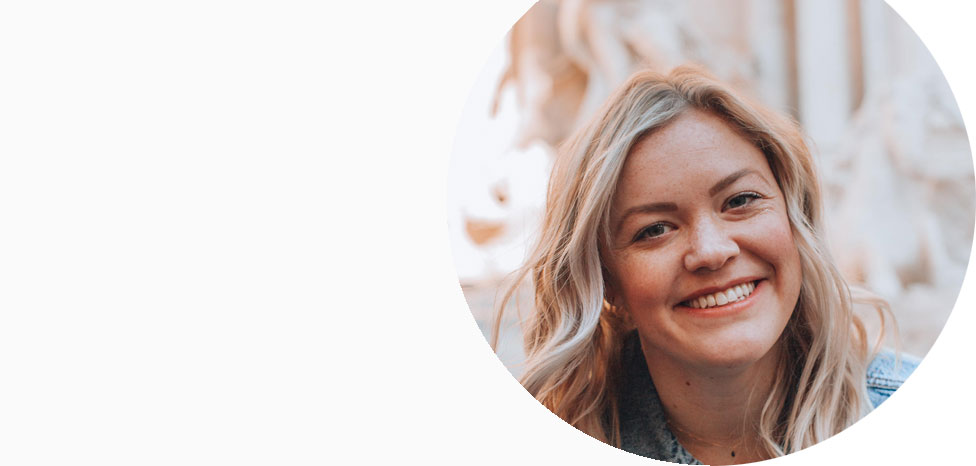
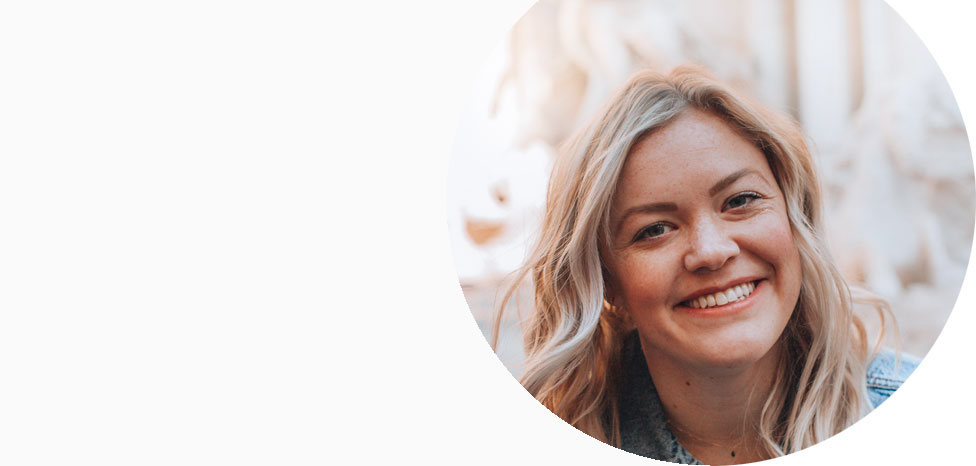
Accessibility tweaks

Changed region(s): [[0.4918, 0.0, 0.6762, 0.3305], [0.7377, 0.0, 0.8299, 0.2103], [0.8607, 0.0, 0.9221, 0.2403]]

diff --git a/src/index.html b/src/index.html
@@ -113,7 +113,7 @@
             <div class="media">
               <p class="mr-3">
                 <span class="icon-disk icon-disk-medium bg-mint">
-                  <svg xmlns="http://www.w3.org/2000/svg" viewBox="0 0 100 100" fill="none" stroke="currentColor" stroke-width="3.7">
+                  <svg xmlns="http://www.w3.org/2000/svg" viewBox="0 0 100 100" fill="none" stroke="currentColor" stroke-width="3.7" aria-label="Weight loss." role="img">
                     <path d="M49.96 98.046v-14.6m-27.5-81.41L24.725 12.9a39.18 39.18 0 0 1-6.449 29.433c-7.263 10.64-9.225 23.9-7.267 39.026l3.47 16.697m70.96-.01L88.9 81.35c1.94-15.136 0-28.385-7.267-39.026a39.18 39.18 0 0 1-6.449-29.433l2.254-10.853M1.954 27.082h14.6M12.4 20.82l4.174 6.26-4.174 6.26m85.563-6.258h-14.6m4.165-6.262l-4.174 6.26 4.174 6.26" stroke-linecap="round" stroke-linejoin="round" />
                     <path d="M11.138 60.477c13.086.672 38.82 22.96 38.82 22.96s25.735-22.287 38.82-22.96z" />
                     <path d="M49.96 42.736c.576 0 1.044.467 1.044 1.044m-2.09 0c0-.576.467-1.044 1.044-1.044m.001 2.087c-.576 0-1.044-.467-1.044-1.044m2.086.001c0 .576-.467 1.044-1.044 1.044" stroke-linecap="round" />
@@ -132,7 +132,7 @@
             <div class="media">
               <p class="mr-3">
                 <span class="icon-disk icon-disk-medium bg-mint">
-                  <svg xmlns="http://www.w3.org/2000/svg" viewBox="0 0 100 100" fill="none" stroke="currentColor" stroke-width="3.7" stroke-linecap="round" stroke-linejoin="round">
+                  <svg xmlns="http://www.w3.org/2000/svg" viewBox="0 0 100 100" fill="none" stroke="currentColor" stroke-width="3.7" stroke-linecap="round" stroke-linejoin="round" aria-label="Strong arm." role="img">
                     <path d="M20.23 28.32l6.642-8.324c.904-1.232 2.396-1.888 3.915-1.72s2.833 1.13 3.448 2.53.437 3.02-.467 4.25L27.05 35.14l-2.273 21.593c6.914-7.864 26.234-7.864 30.685 1.418a21.34 21.34 0 0 1 33.005-17.239 21.34 21.34 0 0 1 9.613 19.321c0 44.732-96.032 31.894-96.032 6.782-1.332-6.796 5.996-33.6 8.933-44.29a21.39 21.39 0 0 1 4.255-7.61 13.64 13.64 0 0 1 10.537-4.978h8.483c3.436-.003 6.66 1.658 8.654 4.457s2.51 6.39 1.383 9.636l-.34.977A13.64 13.64 0 0 1 33.1 34.225l-6.05.91" />
                     <path d="M70.24 55.582h9.092" />
                     <path d="M74.786 48.763v22.73m-9.092-4.547l9.092 4.546 9.092-4.546" />
@@ -153,7 +153,7 @@
             <div class="media">
               <p class="mr-3">
                 <span class="icon-disk icon-disk-medium bg-mint">
-                  <svg xmlns="http://www.w3.org/2000/svg" viewBox="0 0 100 100" fill="none" stroke="currentColor" stroke-width="3.7" stroke-linejoin="round">
+                  <svg xmlns="http://www.w3.org/2000/svg" viewBox="0 0 100 100" fill="none" stroke="currentColor" stroke-width="3.7" stroke-linejoin="round" aria-label="Apple." role="img">
                     <path d="M50 93.975c6.267 0 2.09 4.178 14.622 4.178s25.066-25.066 25.066-41.777S79.243 27.132 66.7 27.132 54.177 31.31 50 31.31s-4.178-4.178-16.71-4.178S10.3 39.665 10.3 56.376s12.533 41.777 25.066 41.777S43.732 93.975 50 93.975z" />
                     <path d="M50 31.31v-8.355c-.014-4.61-3.747-8.342-8.355-8.355h-8.355" stroke-linecap="round" />
                     <path d="M60.978 20.522A18.8 18.8 0 0 0 76.974 4.53a2.16 2.16 0 0 0-2.444-2.444 18.8 18.8 0 0 0-15.992 15.997 2.15 2.15 0 0 0 2.44 2.44z" />
@@ -174,7 +174,7 @@
             <div class="media">
               <p class="mr-3">
                 <span class="icon-disk icon-disk-medium bg-mint">
-                  <svg xmlns="http://www.w3.org/2000/svg" viewBox="0 0 100 100" fill="none" stroke="currentColor" stroke-width="3.7" stroke-linejoin="round">
+                  <svg xmlns="http://www.w3.org/2000/svg" viewBox="0 0 100 100" fill="none" stroke="currentColor" stroke-width="3.7" stroke-linejoin="round" aria-label="Heart with line graph." role="img">
                     <path d="M6.155 46.1h28.057a2.1 2.1 0 0 0 1.745-.931l5.7-8.55a2.1 2.1 0 0 1 3.646.277l11.16 23.912a2.1 2.1 0 0 0 3.818-.034l5.965-13.424a2.1 2.1 0 0 1 1.917-1.259h25.72" />
                     <path d="M50.02 91.665L8.907 49.33C1.51 42.07-.337 30.858 4.343 21.612h0a24.5 24.5 0 0 1 38.964-6.238l6.712 6.12 6.712-6.12c5.55-5.464 13.367-7.962 21.057-6.73s14.336 6.046 17.903 12.97h0a23.79 23.79 0 0 1-4.56 27.717z" />
                   </svg>
@@ -194,7 +194,7 @@
             <div class="media">
               <p class="mr-3">
                 <span class="icon-disk icon-disk-medium bg-mint">
-                  <svg xmlns="http://www.w3.org/2000/svg" viewBox="0 0 100 100" fill="none" stroke="currentColor" stroke-width="3.5" stroke-linecap="round">
+                  <svg xmlns="http://www.w3.org/2000/svg" viewBox="0 0 100 100" fill="none" stroke="currentColor" stroke-width="3.5" stroke-linecap="round" aria-label="Happy, relaxed face." role="img">
                     <path d="m 66.311375,64.77266 a 4.1833258,4.1833258 0 0 1 4.054023,5.220283 20.891276,20.891276 0 0 1 -40.476847,0 4.1833258,4.1833258 0 0 1 4.054023,-5.220283 z" />
                     <path d="m 60.576416,39.27719 a 9.8625076,9.8625076 0 0 0 16.715556,0 m -37.609367,0 a 9.8625076,9.8625076 0 0 1 -16.715556,0" />
                     <circle cx="50.128242" cy="50.146229" r="48.055008" />
@@ -840,7 +840,7 @@
           <div class="col-sm-6 col-xl-2 col-lg-3 col-md-4">
             <div class="row">
               <p class="gutter-small col-4 col-sm-6 col-md-12">
-                <svg xmlns="http://www.w3.org/2000/svg" viewBox="0 0 380 94.72">
+                <svg xmlns="http://www.w3.org/2000/svg" viewBox="0 0 380 94.72" aria-label="PhenQ" role="img">
                   <defs>
                     <clipPath id="A">
                       <path d="M175.3 30.75c15.3 0 23 12.43 23.94 25.9H150.7c1.18-14.78 11.38-25.9 24.6-25.9m-31.4 28.9v.26c0 20.8 15.17 34.8 32.7 34.8 12 0 19.5-4.3 26-10.86a3.12 3.12 0 0 0 1.05-2.22 3.07 3.07 0 0 0-3.14-3 2.82 2.82 0 0 0-2.09.92c-5.36 5.23-12 9.16-21.6 9.16-13.08 0-25-9.7-26.16-26.3H203a3.26 3.26 0 0 0 3.14-3c0-19.1-11.9-34.54-30.6-34.54-18.06 0-31.66 15.44-31.66 34.8m78.88-20.8v-9.15a3.21 3.21 0 1 0-6.41 0V90.4a3.16 3.16 0 0 0 3.27 3.27 3.05 3.05 0 0 0 3.14-3.27V54.56c0-13.87 10.08-23.8 23.16-23.8 13.47 0 21.2 9 21.2 22.76v36.9a3.16 3.16 0 0 0 3.27 3.27 3.06 3.06 0 0 0 3.14-3.27V52.34c0-16-9.8-27.48-26.7-27.48-12.16 0-19.62 6.15-24.07 14m-216-31H32.7c16.48 0 27.73 7.6 27.73 22.1v.27c0 13.6-11.5 22.5-28.52 22.5H6.8zM3.4 1.58A3.46 3.46 0 0 0 0 5v85.27a3.47 3.47 0 0 0 3.4 3.41 3.47 3.47 0 0 0 3.4-3.41V59h24.73c19.1 0 35.7-9.95 35.7-29.18v-.26c0-17.66-13.86-28-34-28zm300.33 45.8v-.27c0-15.7 11.25-28.52 27.47-28.52s27.74 13.08 27.74 28.8v.26a32.06 32.06 0 0 1-2.49 12.55l-10.07-9a9.33 9.33 0 0 0-6.68-2.75 9.5 9.5 0 0 0-9.42 9.57 9.91 9.91 0 0 0 3.72 7.55l9.55 8.1a27.53 27.53 0 0 1-12 2.48c-16.22 0-27.73-13.08-27.73-28.77m-21.07 0v.26c0 26 20.28 47.1 48.54 47.1a49.82 49.82 0 0 0 27.21-7.85l5 4.45a9.43 9.43 0 0 0 16.09-6.8 9.87 9.87 0 0 0-3.67-7.59L372 73.66a47 47 0 0 0 8-26.29v-.27C380 21.07 359.72 0 331.46 0s-48.8 21.32-48.8 47.36M76.8 3.27V90.4a3.16 3.16 0 0 0 3.27 3.27 3.05 3.05 0 0 0 3.14-3.27V54.56c0-13.87 10.08-23.8 23.16-23.8 13.48 0 21.2 9 21.2 22.76v36.9a3.16 3.16 0 0 0 3.27 3.27 3.05 3.05 0 0 0 3.18-3.27V52.34c0-16-9.8-27.48-26.68-27.48-12.17 0-19.63 6.15-24.08 14V3.27A3.23 3.23 0 0 0 79.93 0a3.13 3.13 0 0 0-3.14 3.27" />

diff --git a/src/blog/detox-guide/index.html b/src/blog/detox-guide/index.html
@@ -231,6 +231,17 @@ and for good reason!">
         <div class="block-scroll" data-js="block-scroll" data-offgrid="right">
 
           <section class="block-scroll__child flex-vert" data-js="block-scroll-item">
+            <p><a href="/blog/3-day-detox-plan/" class="btn btn-clear"><img src="/img/content/blog/cta-3-day-detox-plan.jpg" alt="3 Day Detox Plan" class="cap-top radius-medium img-fluid"></a></p>
+            <p>
+              <span class="btn btn-pill btn-sm off">Diet</span>
+              <span class="btn btn-pill btn-sm off">Health and wellbeing</span>
+              <span class="btn btn-pill btn-sm off">Eating</span>
+            </p>
+            <h3 class="h4 type-gotham-medium">3-Day Detox Plan</h3>
+            <p class="mt-auto"><a href="/blog/3-day-detox-plan/" class="btn btn-arrow">Read more<span class="sr-only"> about 3-Day Detox Plan</span></a></p>
+          </section>
+          
+          <section class="block-scroll__child flex-vert" data-js="block-scroll-item">
             <p><a href="/blog/alternate-day-diet/" class="btn btn-clear"><img src="/img/content/blog/cta-alternate-day-diet.jpg" alt="Alternate Day Diet" class="cap-top radius-medium img-fluid"></a></p>
             <p>
               <span class="btn btn-pill btn-sm off">Health and wellbeing</span>
@@ -238,17 +249,6 @@ and for good reason!">
             </p>
             <h3 class="h4 type-gotham-medium">Alternate Day Diet</h3>
             <p class="mt-auto"><a href="/blog/alternate-day-diet/" class="btn btn-arrow">Read more<span class="sr-only"> about Alternate Day Diet</span></a></p>
-          </section>
-
-          <section class="block-scroll__child flex-vert" data-js="block-scroll-item">
-            <p><a href="/blog/detox-guide/" class="btn btn-clear"><img src="/img/content/blog/cta-detox-guide.jpg" alt="A Brief Introduction to Detoxing and Weight Loss" class="cap-top radius-medium img-fluid"></a></p>
-            <p>
-              <span class="btn btn-pill btn-sm off">Diet</span>
-              <span class="btn btn-pill btn-sm off">Health and wellbeing</span>
-              <span class="btn btn-pill btn-sm off">Eating</span>
-            </p>
-            <h3 class="h4 type-gotham-medium">A Brief Introduction to Detoxing and Weight Loss</h3>
-            <p class="mt-auto"><a href="/blog/detox-guide/" class="btn btn-arrow">Read more<span class="sr-only"> about A Brief Introduction to Detoxing and Weight Loss</span></a></p>
           </section>
 
           <section class="block-scroll__child flex-vert" data-js="block-scroll-item">
@@ -295,7 +295,7 @@ and for good reason!">
           <div class="col-sm-6 col-xl-2 col-lg-3 col-md-4">
             <div class="row">
               <p class="gutter-small col-4 col-sm-6 col-md-12">
-                <svg xmlns="http://www.w3.org/2000/svg" viewBox="0 0 380 94.72">
+                <svg xmlns="http://www.w3.org/2000/svg" viewBox="0 0 380 94.72" aria-label="PhenQ" role="img">
                   <defs>
                     <clipPath id="A">
                       <path d="M175.3 30.75c15.3 0 23 12.43 23.94 25.9H150.7c1.18-14.78 11.38-25.9 24.6-25.9m-31.4 28.9v.26c0 20.8 15.17 34.8 32.7 34.8 12 0 19.5-4.3 26-10.86a3.12 3.12 0 0 0 1.05-2.22 3.07 3.07 0 0 0-3.14-3 2.82 2.82 0 0 0-2.09.92c-5.36 5.23-12 9.16-21.6 9.16-13.08 0-25-9.7-26.16-26.3H203a3.26 3.26 0 0 0 3.14-3c0-19.1-11.9-34.54-30.6-34.54-18.06 0-31.66 15.44-31.66 34.8m78.88-20.8v-9.15a3.21 3.21 0 1 0-6.41 0V90.4a3.16 3.16 0 0 0 3.27 3.27 3.05 3.05 0 0 0 3.14-3.27V54.56c0-13.87 10.08-23.8 23.16-23.8 13.47 0 21.2 9 21.2 22.76v36.9a3.16 3.16 0 0 0 3.27 3.27 3.06 3.06 0 0 0 3.14-3.27V52.34c0-16-9.8-27.48-26.7-27.48-12.16 0-19.62 6.15-24.07 14m-216-31H32.7c16.48 0 27.73 7.6 27.73 22.1v.27c0 13.6-11.5 22.5-28.52 22.5H6.8zM3.4 1.58A3.46 3.46 0 0 0 0 5v85.27a3.47 3.47 0 0 0 3.4 3.41 3.47 3.47 0 0 0 3.4-3.41V59h24.73c19.1 0 35.7-9.95 35.7-29.18v-.26c0-17.66-13.86-28-34-28zm300.33 45.8v-.27c0-15.7 11.25-28.52 27.47-28.52s27.74 13.08 27.74 28.8v.26a32.06 32.06 0 0 1-2.49 12.55l-10.07-9a9.33 9.33 0 0 0-6.68-2.75 9.5 9.5 0 0 0-9.42 9.57 9.91 9.91 0 0 0 3.72 7.55l9.55 8.1a27.53 27.53 0 0 1-12 2.48c-16.22 0-27.73-13.08-27.73-28.77m-21.07 0v.26c0 26 20.28 47.1 48.54 47.1a49.82 49.82 0 0 0 27.21-7.85l5 4.45a9.43 9.43 0 0 0 16.09-6.8 9.87 9.87 0 0 0-3.67-7.59L372 73.66a47 47 0 0 0 8-26.29v-.27C380 21.07 359.72 0 331.46 0s-48.8 21.32-48.8 47.36M76.8 3.27V90.4a3.16 3.16 0 0 0 3.27 3.27 3.05 3.05 0 0 0 3.14-3.27V54.56c0-13.87 10.08-23.8 23.16-23.8 13.48 0 21.2 9 21.2 22.76v36.9a3.16 3.16 0 0 0 3.27 3.27 3.05 3.05 0 0 0 3.18-3.27V52.34c0-16-9.8-27.48-26.68-27.48-12.17 0-19.63 6.15-24.08 14V3.27A3.23 3.23 0 0 0 79.93 0a3.13 3.13 0 0 0-3.14 3.27" />

diff --git a/includes/logo-phenq.html b/includes/logo-phenq.html
@@ -1,1 +1,1 @@
-<svg xmlns="http://www.w3.org/2000/svg" viewBox="0 0 380 94.72"><defs><clipPath id="A"><path d="M175.3 30.75c15.3 0 23 12.43 23.94 25.9H150.7c1.18-14.78 11.38-25.9 24.6-25.9m-31.4 28.9v.26c0 20.8 15.17 34.8 32.7 34.8 12 0 19.5-4.3 26-10.86a3.12 3.12 0 0 0 1.05-2.22 3.07 3.07 0 0 0-3.14-3 2.82 2.82 0 0 0-2.09.92c-5.36 5.23-12 9.16-21.6 9.16-13.08 0-25-9.7-26.16-26.3H203a3.26 3.26 0 0 0 3.14-3c0-19.1-11.9-34.54-30.6-34.54-18.06 0-31.66 15.44-31.66 34.8m78.88-20.8v-9.15a3.21 3.21 0 1 0-6.41 0V90.4a3.16 3.16 0 0 0 3.27 3.27 3.05 3.05 0 0 0 3.14-3.27V54.56c0-13.87 10.08-23.8 23.16-23.8 13.47 0 21.2 9 21.2 22.76v36.9a3.16 3.16 0 0 0 3.27 3.27 3.06 3.06 0 0 0 3.14-3.27V52.34c0-16-9.8-27.48-26.7-27.48-12.16 0-19.62 6.15-24.07 14m-216-31H32.7c16.48 0 27.73 7.6 27.73 22.1v.27c0 13.6-11.5 22.5-28.52 22.5H6.8zM3.4 1.58A3.46 3.46 0 0 0 0 5v85.27a3.47 3.47 0 0 0 3.4 3.41 3.47 3.47 0 0 0 3.4-3.41V59h24.73c19.1 0 35.7-9.95 35.7-29.18v-.26c0-17.66-13.86-28-34-28zm300.33 45.8v-.27c0-15.7 11.25-28.52 27.47-28.52s27.74 13.08 27.74 28.8v.26a32.06 32.06 0 0 1-2.49 12.55l-10.07-9a9.33 9.33 0 0 0-6.68-2.75 9.5 9.5 0 0 0-9.42 9.57 9.91 9.91 0 0 0 3.72 7.55l9.55 8.1a27.53 27.53 0 0 1-12 2.48c-16.22 0-27.73-13.08-27.73-28.77m-21.07 0v.26c0 26 20.28 47.1 48.54 47.1a49.82 49.82 0 0 0 27.21-7.85l5 4.45a9.43 9.43 0 0 0 16.09-6.8 9.87 9.87 0 0 0-3.67-7.59L372 73.66a47 47 0 0 0 8-26.29v-.27C380 21.07 359.72 0 331.46 0s-48.8 21.32-48.8 47.36M76.8 3.27V90.4a3.16 3.16 0 0 0 3.27 3.27 3.05 3.05 0 0 0 3.14-3.27V54.56c0-13.87 10.08-23.8 23.16-23.8 13.48 0 21.2 9 21.2 22.76v36.9a3.16 3.16 0 0 0 3.27 3.27 3.05 3.05 0 0 0 3.18-3.27V52.34c0-16-9.8-27.48-26.68-27.48-12.17 0-19.63 6.15-24.08 14V3.27A3.23 3.23 0 0 0 79.93 0a3.13 3.13 0 0 0-3.14 3.27"/></clipPath><linearGradient id="B" x1=".6" y1="47.5" x2="379.8" y2="47.5" gradientUnits="userSpaceOnUse"><stop offset="0" stop-color="#283583"/><stop offset=".41" stop-color="#1666af"/><stop offset=".8" stop-color="#068fd5"/><stop offset="1" stop-color="#009fe3"/></linearGradient></defs><g clip-path="url(#A)"><path d="M0 0h380v94.72H0z" fill="url(#B)"/></g></svg>
+<svg xmlns="http://www.w3.org/2000/svg" viewBox="0 0 380 94.72" aria-label="PhenQ" role="img"><defs><clipPath id="A"><path d="M175.3 30.75c15.3 0 23 12.43 23.94 25.9H150.7c1.18-14.78 11.38-25.9 24.6-25.9m-31.4 28.9v.26c0 20.8 15.17 34.8 32.7 34.8 12 0 19.5-4.3 26-10.86a3.12 3.12 0 0 0 1.05-2.22 3.07 3.07 0 0 0-3.14-3 2.82 2.82 0 0 0-2.09.92c-5.36 5.23-12 9.16-21.6 9.16-13.08 0-25-9.7-26.16-26.3H203a3.26 3.26 0 0 0 3.14-3c0-19.1-11.9-34.54-30.6-34.54-18.06 0-31.66 15.44-31.66 34.8m78.88-20.8v-9.15a3.21 3.21 0 1 0-6.41 0V90.4a3.16 3.16 0 0 0 3.27 3.27 3.05 3.05 0 0 0 3.14-3.27V54.56c0-13.87 10.08-23.8 23.16-23.8 13.47 0 21.2 9 21.2 22.76v36.9a3.16 3.16 0 0 0 3.27 3.27 3.06 3.06 0 0 0 3.14-3.27V52.34c0-16-9.8-27.48-26.7-27.48-12.16 0-19.62 6.15-24.07 14m-216-31H32.7c16.48 0 27.73 7.6 27.73 22.1v.27c0 13.6-11.5 22.5-28.52 22.5H6.8zM3.4 1.58A3.46 3.46 0 0 0 0 5v85.27a3.47 3.47 0 0 0 3.4 3.41 3.47 3.47 0 0 0 3.4-3.41V59h24.73c19.1 0 35.7-9.95 35.7-29.18v-.26c0-17.66-13.86-28-34-28zm300.33 45.8v-.27c0-15.7 11.25-28.52 27.47-28.52s27.74 13.08 27.74 28.8v.26a32.06 32.06 0 0 1-2.49 12.55l-10.07-9a9.33 9.33 0 0 0-6.68-2.75 9.5 9.5 0 0 0-9.42 9.57 9.91 9.91 0 0 0 3.72 7.55l9.55 8.1a27.53 27.53 0 0 1-12 2.48c-16.22 0-27.73-13.08-27.73-28.77m-21.07 0v.26c0 26 20.28 47.1 48.54 47.1a49.82 49.82 0 0 0 27.21-7.85l5 4.45a9.43 9.43 0 0 0 16.09-6.8 9.87 9.87 0 0 0-3.67-7.59L372 73.66a47 47 0 0 0 8-26.29v-.27C380 21.07 359.72 0 331.46 0s-48.8 21.32-48.8 47.36M76.8 3.27V90.4a3.16 3.16 0 0 0 3.27 3.27 3.05 3.05 0 0 0 3.14-3.27V54.56c0-13.87 10.08-23.8 23.16-23.8 13.48 0 21.2 9 21.2 22.76v36.9a3.16 3.16 0 0 0 3.27 3.27 3.05 3.05 0 0 0 3.18-3.27V52.34c0-16-9.8-27.48-26.68-27.48-12.17 0-19.63 6.15-24.08 14V3.27A3.23 3.23 0 0 0 79.93 0a3.13 3.13 0 0 0-3.14 3.27"/></clipPath><linearGradient id="B" x1=".6" y1="47.5" x2="379.8" y2="47.5" gradientUnits="userSpaceOnUse"><stop offset="0" stop-color="#283583"/><stop offset=".41" stop-color="#1666af"/><stop offset=".8" stop-color="#068fd5"/><stop offset="1" stop-color="#009fe3"/></linearGradient></defs><g clip-path="url(#A)"><path d="M0 0h380v94.72H0z" fill="url(#B)"/></g></svg>

diff --git a/src/include/logo-phenq.html b/src/include/logo-phenq.html
@@ -1,1 +1,1 @@
-<svg xmlns="http://www.w3.org/2000/svg" viewBox="0 0 380 94.72"><defs><clipPath id="A"><path d="M175.3 30.75c15.3 0 23 12.43 23.94 25.9H150.7c1.18-14.78 11.38-25.9 24.6-25.9m-31.4 28.9v.26c0 20.8 15.17 34.8 32.7 34.8 12 0 19.5-4.3 26-10.86a3.12 3.12 0 0 0 1.05-2.22 3.07 3.07 0 0 0-3.14-3 2.82 2.82 0 0 0-2.09.92c-5.36 5.23-12 9.16-21.6 9.16-13.08 0-25-9.7-26.16-26.3H203a3.26 3.26 0 0 0 3.14-3c0-19.1-11.9-34.54-30.6-34.54-18.06 0-31.66 15.44-31.66 34.8m78.88-20.8v-9.15a3.21 3.21 0 1 0-6.41 0V90.4a3.16 3.16 0 0 0 3.27 3.27 3.05 3.05 0 0 0 3.14-3.27V54.56c0-13.87 10.08-23.8 23.16-23.8 13.47 0 21.2 9 21.2 22.76v36.9a3.16 3.16 0 0 0 3.27 3.27 3.06 3.06 0 0 0 3.14-3.27V52.34c0-16-9.8-27.48-26.7-27.48-12.16 0-19.62 6.15-24.07 14m-216-31H32.7c16.48 0 27.73 7.6 27.73 22.1v.27c0 13.6-11.5 22.5-28.52 22.5H6.8zM3.4 1.58A3.46 3.46 0 0 0 0 5v85.27a3.47 3.47 0 0 0 3.4 3.41 3.47 3.47 0 0 0 3.4-3.41V59h24.73c19.1 0 35.7-9.95 35.7-29.18v-.26c0-17.66-13.86-28-34-28zm300.33 45.8v-.27c0-15.7 11.25-28.52 27.47-28.52s27.74 13.08 27.74 28.8v.26a32.06 32.06 0 0 1-2.49 12.55l-10.07-9a9.33 9.33 0 0 0-6.68-2.75 9.5 9.5 0 0 0-9.42 9.57 9.91 9.91 0 0 0 3.72 7.55l9.55 8.1a27.53 27.53 0 0 1-12 2.48c-16.22 0-27.73-13.08-27.73-28.77m-21.07 0v.26c0 26 20.28 47.1 48.54 47.1a49.82 49.82 0 0 0 27.21-7.85l5 4.45a9.43 9.43 0 0 0 16.09-6.8 9.87 9.87 0 0 0-3.67-7.59L372 73.66a47 47 0 0 0 8-26.29v-.27C380 21.07 359.72 0 331.46 0s-48.8 21.32-48.8 47.36M76.8 3.27V90.4a3.16 3.16 0 0 0 3.27 3.27 3.05 3.05 0 0 0 3.14-3.27V54.56c0-13.87 10.08-23.8 23.16-23.8 13.48 0 21.2 9 21.2 22.76v36.9a3.16 3.16 0 0 0 3.27 3.27 3.05 3.05 0 0 0 3.18-3.27V52.34c0-16-9.8-27.48-26.68-27.48-12.17 0-19.63 6.15-24.08 14V3.27A3.23 3.23 0 0 0 79.93 0a3.13 3.13 0 0 0-3.14 3.27"/></clipPath><linearGradient id="B" x1=".6" y1="47.5" x2="379.8" y2="47.5" gradientUnits="userSpaceOnUse"><stop offset="0" stop-color="#283583"/><stop offset=".41" stop-color="#1666af"/><stop offset=".8" stop-color="#068fd5"/><stop offset="1" stop-color="#009fe3"/></linearGradient></defs><g clip-path="url(#A)"><path d="M0 0h380v94.72H0z" fill="url(#B)"/></g></svg>
+<svg xmlns="http://www.w3.org/2000/svg" viewBox="0 0 380 94.72" aria-label="PhenQ" role="img"><defs><clipPath id="A"><path d="M175.3 30.75c15.3 0 23 12.43 23.94 25.9H150.7c1.18-14.78 11.38-25.9 24.6-25.9m-31.4 28.9v.26c0 20.8 15.17 34.8 32.7 34.8 12 0 19.5-4.3 26-10.86a3.12 3.12 0 0 0 1.05-2.22 3.07 3.07 0 0 0-3.14-3 2.82 2.82 0 0 0-2.09.92c-5.36 5.23-12 9.16-21.6 9.16-13.08 0-25-9.7-26.16-26.3H203a3.26 3.26 0 0 0 3.14-3c0-19.1-11.9-34.54-30.6-34.54-18.06 0-31.66 15.44-31.66 34.8m78.88-20.8v-9.15a3.21 3.21 0 1 0-6.41 0V90.4a3.16 3.16 0 0 0 3.27 3.27 3.05 3.05 0 0 0 3.14-3.27V54.56c0-13.87 10.08-23.8 23.16-23.8 13.47 0 21.2 9 21.2 22.76v36.9a3.16 3.16 0 0 0 3.27 3.27 3.06 3.06 0 0 0 3.14-3.27V52.34c0-16-9.8-27.48-26.7-27.48-12.16 0-19.62 6.15-24.07 14m-216-31H32.7c16.48 0 27.73 7.6 27.73 22.1v.27c0 13.6-11.5 22.5-28.52 22.5H6.8zM3.4 1.58A3.46 3.46 0 0 0 0 5v85.27a3.47 3.47 0 0 0 3.4 3.41 3.47 3.47 0 0 0 3.4-3.41V59h24.73c19.1 0 35.7-9.95 35.7-29.18v-.26c0-17.66-13.86-28-34-28zm300.33 45.8v-.27c0-15.7 11.25-28.52 27.47-28.52s27.74 13.08 27.74 28.8v.26a32.06 32.06 0 0 1-2.49 12.55l-10.07-9a9.33 9.33 0 0 0-6.68-2.75 9.5 9.5 0 0 0-9.42 9.57 9.91 9.91 0 0 0 3.72 7.55l9.55 8.1a27.53 27.53 0 0 1-12 2.48c-16.22 0-27.73-13.08-27.73-28.77m-21.07 0v.26c0 26 20.28 47.1 48.54 47.1a49.82 49.82 0 0 0 27.21-7.85l5 4.45a9.43 9.43 0 0 0 16.09-6.8 9.87 9.87 0 0 0-3.67-7.59L372 73.66a47 47 0 0 0 8-26.29v-.27C380 21.07 359.72 0 331.46 0s-48.8 21.32-48.8 47.36M76.8 3.27V90.4a3.16 3.16 0 0 0 3.27 3.27 3.05 3.05 0 0 0 3.14-3.27V54.56c0-13.87 10.08-23.8 23.16-23.8 13.48 0 21.2 9 21.2 22.76v36.9a3.16 3.16 0 0 0 3.27 3.27 3.05 3.05 0 0 0 3.18-3.27V52.34c0-16-9.8-27.48-26.68-27.48-12.17 0-19.63 6.15-24.08 14V3.27A3.23 3.23 0 0 0 79.93 0a3.13 3.13 0 0 0-3.14 3.27"/></clipPath><linearGradient id="B" x1=".6" y1="47.5" x2="379.8" y2="47.5" gradientUnits="userSpaceOnUse"><stop offset="0" stop-color="#283583"/><stop offset=".41" stop-color="#1666af"/><stop offset=".8" stop-color="#068fd5"/><stop offset="1" stop-color="#009fe3"/></linearGradient></defs><g clip-path="url(#A)"><path d="M0 0h380v94.72H0z" fill="url(#B)"/></g></svg>

diff --git a/src/blog/index.html b/src/blog/index.html
@@ -105,7 +105,7 @@
           <div class="row gutter-small">
 
             <section class="col-md flex-vert" aria-label="3-Day Detox Plan">
-              <p class="d-print-none"><a href="/blog/3-day-detox-plan/" class="btn btn-clear"><img src="/img/content/blog/cta-3-day-detox-plan.jpg" alt="" class="cap-top radius-medium img-fluid"></a></p>
+              <p class="d-print-none"><a href="/blog/3-day-detox-plan/" class="btn btn-clear"><img src="/img/content/blog/cta-3-day-detox-plan.jpg" alt="3-Day Detox Plan" class="cap-top radius-medium img-fluid"></a></p>
               <p>
                 <span class="btn btn-pill btn-sm off">Diet</span>
                 <span class="btn btn-pill btn-sm off">Health and wellbeing</span>
@@ -184,7 +184,7 @@
           <div class="col-sm-6 col-xl-2 col-lg-3 col-md-4">
             <div class="row">
               <p class="gutter-small col-4 col-sm-6 col-md-12">
-                <svg xmlns="http://www.w3.org/2000/svg" viewBox="0 0 380 94.72">
+                <svg xmlns="http://www.w3.org/2000/svg" viewBox="0 0 380 94.72" aria-label="PhenQ" role="img">
                   <defs>
                     <clipPath id="A">
                       <path d="M175.3 30.75c15.3 0 23 12.43 23.94 25.9H150.7c1.18-14.78 11.38-25.9 24.6-25.9m-31.4 28.9v.26c0 20.8 15.17 34.8 32.7 34.8 12 0 19.5-4.3 26-10.86a3.12 3.12 0 0 0 1.05-2.22 3.07 3.07 0 0 0-3.14-3 2.82 2.82 0 0 0-2.09.92c-5.36 5.23-12 9.16-21.6 9.16-13.08 0-25-9.7-26.16-26.3H203a3.26 3.26 0 0 0 3.14-3c0-19.1-11.9-34.54-30.6-34.54-18.06 0-31.66 15.44-31.66 34.8m78.88-20.8v-9.15a3.21 3.21 0 1 0-6.41 0V90.4a3.16 3.16 0 0 0 3.27 3.27 3.05 3.05 0 0 0 3.14-3.27V54.56c0-13.87 10.08-23.8 23.16-23.8 13.47 0 21.2 9 21.2 22.76v36.9a3.16 3.16 0 0 0 3.27 3.27 3.06 3.06 0 0 0 3.14-3.27V52.34c0-16-9.8-27.48-26.7-27.48-12.16 0-19.62 6.15-24.07 14m-216-31H32.7c16.48 0 27.73 7.6 27.73 22.1v.27c0 13.6-11.5 22.5-28.52 22.5H6.8zM3.4 1.58A3.46 3.46 0 0 0 0 5v85.27a3.47 3.47 0 0 0 3.4 3.41 3.47 3.47 0 0 0 3.4-3.41V59h24.73c19.1 0 35.7-9.95 35.7-29.18v-.26c0-17.66-13.86-28-34-28zm300.33 45.8v-.27c0-15.7 11.25-28.52 27.47-28.52s27.74 13.08 27.74 28.8v.26a32.06 32.06 0 0 1-2.49 12.55l-10.07-9a9.33 9.33 0 0 0-6.68-2.75 9.5 9.5 0 0 0-9.42 9.57 9.91 9.91 0 0 0 3.72 7.55l9.55 8.1a27.53 27.53 0 0 1-12 2.48c-16.22 0-27.73-13.08-27.73-28.77m-21.07 0v.26c0 26 20.28 47.1 48.54 47.1a49.82 49.82 0 0 0 27.21-7.85l5 4.45a9.43 9.43 0 0 0 16.09-6.8 9.87 9.87 0 0 0-3.67-7.59L372 73.66a47 47 0 0 0 8-26.29v-.27C380 21.07 359.72 0 331.46 0s-48.8 21.32-48.8 47.36M76.8 3.27V90.4a3.16 3.16 0 0 0 3.27 3.27 3.05 3.05 0 0 0 3.14-3.27V54.56c0-13.87 10.08-23.8 23.16-23.8 13.48 0 21.2 9 21.2 22.76v36.9a3.16 3.16 0 0 0 3.27 3.27 3.05 3.05 0 0 0 3.18-3.27V52.34c0-16-9.8-27.48-26.68-27.48-12.17 0-19.63 6.15-24.08 14V3.27A3.23 3.23 0 0 0 79.93 0a3.13 3.13 0 0 0-3.14 3.27" />

diff --git a/src/blog/alternate-day-diet/index.html b/src/blog/alternate-day-diet/index.html
@@ -1280,7 +1280,7 @@
         <div class="block-scroll" data-js="block-scroll" data-offgrid="right">
 
           <section class="block-scroll__child flex-vert" data-js="block-scroll-item">
-            <p><a href="/blog/3-day-detox-plan/" class="btn btn-clear"><img src="/img/content/blog/cta-3-day-detox-plan.jpg" alt="" class="cap-top radius-medium img-fluid"></a></p>
+            <p><a href="/blog/3-day-detox-plan/" class="btn btn-clear"><img src="/img/content/blog/cta-3-day-detox-plan.jpg" alt="3 Day Detox Plan" class="cap-top radius-medium img-fluid"></a></p>
             <p>
               <span class="btn btn-pill btn-sm off">Diet</span>
               <span class="btn btn-pill btn-sm off">Health and wellbeing</span>
@@ -1345,7 +1345,7 @@
           <div class="col-sm-6 col-xl-2 col-lg-3 col-md-4">
             <div class="row">
               <p class="gutter-small col-4 col-sm-6 col-md-12">
-                <svg xmlns="http://www.w3.org/2000/svg" viewBox="0 0 380 94.72">
+                <svg xmlns="http://www.w3.org/2000/svg" viewBox="0 0 380 94.72" aria-label="PhenQ" role="img">
                   <defs>
                     <clipPath id="A">
                       <path d="M175.3 30.75c15.3 0 23 12.43 23.94 25.9H150.7c1.18-14.78 11.38-25.9 24.6-25.9m-31.4 28.9v.26c0 20.8 15.17 34.8 32.7 34.8 12 0 19.5-4.3 26-10.86a3.12 3.12 0 0 0 1.05-2.22 3.07 3.07 0 0 0-3.14-3 2.82 2.82 0 0 0-2.09.92c-5.36 5.23-12 9.16-21.6 9.16-13.08 0-25-9.7-26.16-26.3H203a3.26 3.26 0 0 0 3.14-3c0-19.1-11.9-34.54-30.6-34.54-18.06 0-31.66 15.44-31.66 34.8m78.88-20.8v-9.15a3.21 3.21 0 1 0-6.41 0V90.4a3.16 3.16 0 0 0 3.27 3.27 3.05 3.05 0 0 0 3.14-3.27V54.56c0-13.87 10.08-23.8 23.16-23.8 13.47 0 21.2 9 21.2 22.76v36.9a3.16 3.16 0 0 0 3.27 3.27 3.06 3.06 0 0 0 3.14-3.27V52.34c0-16-9.8-27.48-26.7-27.48-12.16 0-19.62 6.15-24.07 14m-216-31H32.7c16.48 0 27.73 7.6 27.73 22.1v.27c0 13.6-11.5 22.5-28.52 22.5H6.8zM3.4 1.58A3.46 3.46 0 0 0 0 5v85.27a3.47 3.47 0 0 0 3.4 3.41 3.47 3.47 0 0 0 3.4-3.41V59h24.73c19.1 0 35.7-9.95 35.7-29.18v-.26c0-17.66-13.86-28-34-28zm300.33 45.8v-.27c0-15.7 11.25-28.52 27.47-28.52s27.74 13.08 27.74 28.8v.26a32.06 32.06 0 0 1-2.49 12.55l-10.07-9a9.33 9.33 0 0 0-6.68-2.75 9.5 9.5 0 0 0-9.42 9.57 9.91 9.91 0 0 0 3.72 7.55l9.55 8.1a27.53 27.53 0 0 1-12 2.48c-16.22 0-27.73-13.08-27.73-28.77m-21.07 0v.26c0 26 20.28 47.1 48.54 47.1a49.82 49.82 0 0 0 27.21-7.85l5 4.45a9.43 9.43 0 0 0 16.09-6.8 9.87 9.87 0 0 0-3.67-7.59L372 73.66a47 47 0 0 0 8-26.29v-.27C380 21.07 359.72 0 331.46 0s-48.8 21.32-48.8 47.36M76.8 3.27V90.4a3.16 3.16 0 0 0 3.27 3.27 3.05 3.05 0 0 0 3.14-3.27V54.56c0-13.87 10.08-23.8 23.16-23.8 13.48 0 21.2 9 21.2 22.76v36.9a3.16 3.16 0 0 0 3.27 3.27 3.05 3.05 0 0 0 3.18-3.27V52.34c0-16-9.8-27.48-26.68-27.48-12.17 0-19.63 6.15-24.08 14V3.27A3.23 3.23 0 0 0 79.93 0a3.13 3.13 0 0 0-3.14 3.27" />

diff --git a/src/blog/article/index.html b/src/blog/article/index.html
@@ -155,7 +155,7 @@
         <div class="block-scroll" data-js="block-scroll" data-offgrid="right">
 
           <section class="block-scroll__child flex-vert" data-js="block-scroll-item">
-            <p><a href="/blog/3-day-detox-plan/" class="btn btn-clear"><img src="/img/content/blog/cta-3-day-detox-plan.jpg" alt="" class="cap-top radius-medium img-fluid"></a></p>
+            <p><a href="/blog/3-day-detox-plan/" class="btn btn-clear"><img src="/img/content/blog/cta-3-day-detox-plan.jpg" alt="3 Day Detox Plan" class="cap-top radius-medium img-fluid"></a></p>
             <p>
               <span class="btn btn-pill btn-sm off">Diet</span>
               <span class="btn btn-pill btn-sm off">Health and wellbeing</span>
@@ -230,7 +230,7 @@
           <div class="col-sm-6 col-xl-2 col-lg-3 col-md-4">
             <div class="row">
               <p class="gutter-small col-4 col-sm-6 col-md-12">
-                <svg xmlns="http://www.w3.org/2000/svg" viewBox="0 0 380 94.72">
+                <svg xmlns="http://www.w3.org/2000/svg" viewBox="0 0 380 94.72" aria-label="PhenQ" role="img">
                   <defs>
                     <clipPath id="A">
                       <path d="M175.3 30.75c15.3 0 23 12.43 23.94 25.9H150.7c1.18-14.78 11.38-25.9 24.6-25.9m-31.4 28.9v.26c0 20.8 15.17 34.8 32.7 34.8 12 0 19.5-4.3 26-10.86a3.12 3.12 0 0 0 1.05-2.22 3.07 3.07 0 0 0-3.14-3 2.82 2.82 0 0 0-2.09.92c-5.36 5.23-12 9.16-21.6 9.16-13.08 0-25-9.7-26.16-26.3H203a3.26 3.26 0 0 0 3.14-3c0-19.1-11.9-34.54-30.6-34.54-18.06 0-31.66 15.44-31.66 34.8m78.88-20.8v-9.15a3.21 3.21 0 1 0-6.41 0V90.4a3.16 3.16 0 0 0 3.27 3.27 3.05 3.05 0 0 0 3.14-3.27V54.56c0-13.87 10.08-23.8 23.16-23.8 13.47 0 21.2 9 21.2 22.76v36.9a3.16 3.16 0 0 0 3.27 3.27 3.06 3.06 0 0 0 3.14-3.27V52.34c0-16-9.8-27.48-26.7-27.48-12.16 0-19.62 6.15-24.07 14m-216-31H32.7c16.48 0 27.73 7.6 27.73 22.1v.27c0 13.6-11.5 22.5-28.52 22.5H6.8zM3.4 1.58A3.46 3.46 0 0 0 0 5v85.27a3.47 3.47 0 0 0 3.4 3.41 3.47 3.47 0 0 0 3.4-3.41V59h24.73c19.1 0 35.7-9.95 35.7-29.18v-.26c0-17.66-13.86-28-34-28zm300.33 45.8v-.27c0-15.7 11.25-28.52 27.47-28.52s27.74 13.08 27.74 28.8v.26a32.06 32.06 0 0 1-2.49 12.55l-10.07-9a9.33 9.33 0 0 0-6.68-2.75 9.5 9.5 0 0 0-9.42 9.57 9.91 9.91 0 0 0 3.72 7.55l9.55 8.1a27.53 27.53 0 0 1-12 2.48c-16.22 0-27.73-13.08-27.73-28.77m-21.07 0v.26c0 26 20.28 47.1 48.54 47.1a49.82 49.82 0 0 0 27.21-7.85l5 4.45a9.43 9.43 0 0 0 16.09-6.8 9.87 9.87 0 0 0-3.67-7.59L372 73.66a47 47 0 0 0 8-26.29v-.27C380 21.07 359.72 0 331.46 0s-48.8 21.32-48.8 47.36M76.8 3.27V90.4a3.16 3.16 0 0 0 3.27 3.27 3.05 3.05 0 0 0 3.14-3.27V54.56c0-13.87 10.08-23.8 23.16-23.8 13.48 0 21.2 9 21.2 22.76v36.9a3.16 3.16 0 0 0 3.27 3.27 3.05 3.05 0 0 0 3.18-3.27V52.34c0-16-9.8-27.48-26.68-27.48-12.17 0-19.63 6.15-24.08 14V3.27A3.23 3.23 0 0 0 79.93 0a3.13 3.13 0 0 0-3.14 3.27" />

diff --git a/src/blog/nutrition-guide/index.html b/src/blog/nutrition-guide/index.html
@@ -605,7 +605,7 @@
         <div class="block-scroll" data-js="block-scroll" data-offgrid="right">
 
           <section class="block-scroll__child flex-vert" data-js="block-scroll-item">
-            <p><a href="/blog/3-day-detox-plan/" class="btn btn-clear"><img src="/img/content/blog/cta-3-day-detox-plan.jpg" alt="" class="cap-top radius-medium img-fluid"></a></p>
+            <p><a href="/blog/3-day-detox-plan/" class="btn btn-clear"><img src="/img/content/blog/cta-3-day-detox-plan.jpg" alt="3 Day Detox Plan" class="cap-top radius-medium img-fluid"></a></p>
             <p>
               <span class="btn btn-pill btn-sm off">Diet</span>
               <span class="btn btn-pill btn-sm off">Health and wellbeing</span>
@@ -669,7 +669,7 @@
           <div class="col-sm-6 col-xl-2 col-lg-3 col-md-4">
             <div class="row">
               <p class="gutter-small col-4 col-sm-6 col-md-12">
-                <svg xmlns="http://www.w3.org/2000/svg" viewBox="0 0 380 94.72">
+                <svg xmlns="http://www.w3.org/2000/svg" viewBox="0 0 380 94.72" aria-label="PhenQ" role="img">
                   <defs>
                     <clipPath id="A">
                       <path d="M175.3 30.75c15.3 0 23 12.43 23.94 25.9H150.7c1.18-14.78 11.38-25.9 24.6-25.9m-31.4 28.9v.26c0 20.8 15.17 34.8 32.7 34.8 12 0 19.5-4.3 26-10.86a3.12 3.12 0 0 0 1.05-2.22 3.07 3.07 0 0 0-3.14-3 2.82 2.82 0 0 0-2.09.92c-5.36 5.23-12 9.16-21.6 9.16-13.08 0-25-9.7-26.16-26.3H203a3.26 3.26 0 0 0 3.14-3c0-19.1-11.9-34.54-30.6-34.54-18.06 0-31.66 15.44-31.66 34.8m78.88-20.8v-9.15a3.21 3.21 0 1 0-6.41 0V90.4a3.16 3.16 0 0 0 3.27 3.27 3.05 3.05 0 0 0 3.14-3.27V54.56c0-13.87 10.08-23.8 23.16-23.8 13.47 0 21.2 9 21.2 22.76v36.9a3.16 3.16 0 0 0 3.27 3.27 3.06 3.06 0 0 0 3.14-3.27V52.34c0-16-9.8-27.48-26.7-27.48-12.16 0-19.62 6.15-24.07 14m-216-31H32.7c16.48 0 27.73 7.6 27.73 22.1v.27c0 13.6-11.5 22.5-28.52 22.5H6.8zM3.4 1.58A3.46 3.46 0 0 0 0 5v85.27a3.47 3.47 0 0 0 3.4 3.41 3.47 3.47 0 0 0 3.4-3.41V59h24.73c19.1 0 35.7-9.95 35.7-29.18v-.26c0-17.66-13.86-28-34-28zm300.33 45.8v-.27c0-15.7 11.25-28.52 27.47-28.52s27.74 13.08 27.74 28.8v.26a32.06 32.06 0 0 1-2.49 12.55l-10.07-9a9.33 9.33 0 0 0-6.68-2.75 9.5 9.5 0 0 0-9.42 9.57 9.91 9.91 0 0 0 3.72 7.55l9.55 8.1a27.53 27.53 0 0 1-12 2.48c-16.22 0-27.73-13.08-27.73-28.77m-21.07 0v.26c0 26 20.28 47.1 48.54 47.1a49.82 49.82 0 0 0 27.21-7.85l5 4.45a9.43 9.43 0 0 0 16.09-6.8 9.87 9.87 0 0 0-3.67-7.59L372 73.66a47 47 0 0 0 8-26.29v-.27C380 21.07 359.72 0 331.46 0s-48.8 21.32-48.8 47.36M76.8 3.27V90.4a3.16 3.16 0 0 0 3.27 3.27 3.05 3.05 0 0 0 3.14-3.27V54.56c0-13.87 10.08-23.8 23.16-23.8 13.48 0 21.2 9 21.2 22.76v36.9a3.16 3.16 0 0 0 3.27 3.27 3.05 3.05 0 0 0 3.18-3.27V52.34c0-16-9.8-27.48-26.68-27.48-12.17 0-19.63 6.15-24.08 14V3.27A3.23 3.23 0 0 0 79.93 0a3.13 3.13 0 0 0-3.14 3.27" />

diff --git a/src/blog/supplements-guide/index.html b/src/blog/supplements-guide/index.html
@@ -231,7 +231,7 @@
         <div class="block-scroll" data-js="block-scroll" data-offgrid="right">
 
           <section class="block-scroll__child flex-vert" data-js="block-scroll-item">
-            <p><a href="/blog/3-day-detox-plan/" class="btn btn-clear"><img src="/img/content/blog/cta-3-day-detox-plan.jpg" alt="" class="cap-top radius-medium img-fluid"></a></p>
+            <p><a href="/blog/3-day-detox-plan/" class="btn btn-clear"><img src="/img/content/blog/cta-3-day-detox-plan.jpg" alt="3 Day Detox Plan" class="cap-top radius-medium img-fluid"></a></p>
             <p>
               <span class="btn btn-pill btn-sm off">Diet</span>
               <span class="btn btn-pill btn-sm off">Health and wellbeing</span>
@@ -296,7 +296,7 @@
           <div class="col-sm-6 col-xl-2 col-lg-3 col-md-4">
             <div class="row">
               <p class="gutter-small col-4 col-sm-6 col-md-12">
-                <svg xmlns="http://www.w3.org/2000/svg" viewBox="0 0 380 94.72">
+                <svg xmlns="http://www.w3.org/2000/svg" viewBox="0 0 380 94.72" aria-label="PhenQ" role="img">
                   <defs>
                     <clipPath id="A">
                       <path d="M175.3 30.75c15.3 0 23 12.43 23.94 25.9H150.7c1.18-14.78 11.38-25.9 24.6-25.9m-31.4 28.9v.26c0 20.8 15.17 34.8 32.7 34.8 12 0 19.5-4.3 26-10.86a3.12 3.12 0 0 0 1.05-2.22 3.07 3.07 0 0 0-3.14-3 2.82 2.82 0 0 0-2.09.92c-5.36 5.23-12 9.16-21.6 9.16-13.08 0-25-9.7-26.16-26.3H203a3.26 3.26 0 0 0 3.14-3c0-19.1-11.9-34.54-30.6-34.54-18.06 0-31.66 15.44-31.66 34.8m78.88-20.8v-9.15a3.21 3.21 0 1 0-6.41 0V90.4a3.16 3.16 0 0 0 3.27 3.27 3.05 3.05 0 0 0 3.14-3.27V54.56c0-13.87 10.08-23.8 23.16-23.8 13.47 0 21.2 9 21.2 22.76v36.9a3.16 3.16 0 0 0 3.27 3.27 3.06 3.06 0 0 0 3.14-3.27V52.34c0-16-9.8-27.48-26.7-27.48-12.16 0-19.62 6.15-24.07 14m-216-31H32.7c16.48 0 27.73 7.6 27.73 22.1v.27c0 13.6-11.5 22.5-28.52 22.5H6.8zM3.4 1.58A3.46 3.46 0 0 0 0 5v85.27a3.47 3.47 0 0 0 3.4 3.41 3.47 3.47 0 0 0 3.4-3.41V59h24.73c19.1 0 35.7-9.95 35.7-29.18v-.26c0-17.66-13.86-28-34-28zm300.33 45.8v-.27c0-15.7 11.25-28.52 27.47-28.52s27.74 13.08 27.74 28.8v.26a32.06 32.06 0 0 1-2.49 12.55l-10.07-9a9.33 9.33 0 0 0-6.68-2.75 9.5 9.5 0 0 0-9.42 9.57 9.91 9.91 0 0 0 3.72 7.55l9.55 8.1a27.53 27.53 0 0 1-12 2.48c-16.22 0-27.73-13.08-27.73-28.77m-21.07 0v.26c0 26 20.28 47.1 48.54 47.1a49.82 49.82 0 0 0 27.21-7.85l5 4.45a9.43 9.43 0 0 0 16.09-6.8 9.87 9.87 0 0 0-3.67-7.59L372 73.66a47 47 0 0 0 8-26.29v-.27C380 21.07 359.72 0 331.46 0s-48.8 21.32-48.8 47.36M76.8 3.27V90.4a3.16 3.16 0 0 0 3.27 3.27 3.05 3.05 0 0 0 3.14-3.27V54.56c0-13.87 10.08-23.8 23.16-23.8 13.48 0 21.2 9 21.2 22.76v36.9a3.16 3.16 0 0 0 3.27 3.27 3.05 3.05 0 0 0 3.18-3.27V52.34c0-16-9.8-27.48-26.68-27.48-12.17 0-19.63 6.15-24.08 14V3.27A3.23 3.23 0 0 0 79.93 0a3.13 3.13 0 0 0-3.14 3.27" />

diff --git a/src/blog/workout-guide/index.html b/src/blog/workout-guide/index.html
@@ -848,7 +848,7 @@
         <div class="block-scroll" data-js="block-scroll" data-offgrid="right">
 
           <section class="block-scroll__child flex-vert" data-js="block-scroll-item">
-            <p><a href="/blog/3-day-detox-plan/" class="btn btn-clear"><img src="/img/content/blog/cta-3-day-detox-plan.jpg" alt="" class="cap-top radius-medium img-fluid"></a></p>
+            <p><a href="/blog/3-day-detox-plan/" class="btn btn-clear"><img src="/img/content/blog/cta-3-day-detox-plan.jpg" alt="3 Day Detox Plan" class="cap-top radius-medium img-fluid"></a></p>
             <p>
               <span class="btn btn-pill btn-sm off">Diet</span>
               <span class="btn btn-pill btn-sm off">Health and wellbeing</span>
@@ -912,7 +912,7 @@
           <div class="col-sm-6 col-xl-2 col-lg-3 col-md-4">
             <div class="row">
               <p class="gutter-small col-4 col-sm-6 col-md-12">
-                <svg xmlns="http://www.w3.org/2000/svg" viewBox="0 0 380 94.72">
+                <svg xmlns="http://www.w3.org/2000/svg" viewBox="0 0 380 94.72" aria-label="PhenQ" role="img">
                   <defs>
                     <clipPath id="A">
                       <path d="M175.3 30.75c15.3 0 23 12.43 23.94 25.9H150.7c1.18-14.78 11.38-25.9 24.6-25.9m-31.4 28.9v.26c0 20.8 15.17 34.8 32.7 34.8 12 0 19.5-4.3 26-10.86a3.12 3.12 0 0 0 1.05-2.22 3.07 3.07 0 0 0-3.14-3 2.82 2.82 0 0 0-2.09.92c-5.36 5.23-12 9.16-21.6 9.16-13.08 0-25-9.7-26.16-26.3H203a3.26 3.26 0 0 0 3.14-3c0-19.1-11.9-34.54-30.6-34.54-18.06 0-31.66 15.44-31.66 34.8m78.88-20.8v-9.15a3.21 3.21 0 1 0-6.41 0V90.4a3.16 3.16 0 0 0 3.27 3.27 3.05 3.05 0 0 0 3.14-3.27V54.56c0-13.87 10.08-23.8 23.16-23.8 13.47 0 21.2 9 21.2 22.76v36.9a3.16 3.16 0 0 0 3.27 3.27 3.06 3.06 0 0 0 3.14-3.27V52.34c0-16-9.8-27.48-26.7-27.48-12.16 0-19.62 6.15-24.07 14m-216-31H32.7c16.48 0 27.73 7.6 27.73 22.1v.27c0 13.6-11.5 22.5-28.52 22.5H6.8zM3.4 1.58A3.46 3.46 0 0 0 0 5v85.27a3.47 3.47 0 0 0 3.4 3.41 3.47 3.47 0 0 0 3.4-3.41V59h24.73c19.1 0 35.7-9.95 35.7-29.18v-.26c0-17.66-13.86-28-34-28zm300.33 45.8v-.27c0-15.7 11.25-28.52 27.47-28.52s27.74 13.08 27.74 28.8v.26a32.06 32.06 0 0 1-2.49 12.55l-10.07-9a9.33 9.33 0 0 0-6.68-2.75 9.5 9.5 0 0 0-9.42 9.57 9.91 9.91 0 0 0 3.72 7.55l9.55 8.1a27.53 27.53 0 0 1-12 2.48c-16.22 0-27.73-13.08-27.73-28.77m-21.07 0v.26c0 26 20.28 47.1 48.54 47.1a49.82 49.82 0 0 0 27.21-7.85l5 4.45a9.43 9.43 0 0 0 16.09-6.8 9.87 9.87 0 0 0-3.67-7.59L372 73.66a47 47 0 0 0 8-26.29v-.27C380 21.07 359.72 0 331.46 0s-48.8 21.32-48.8 47.36M76.8 3.27V90.4a3.16 3.16 0 0 0 3.27 3.27 3.05 3.05 0 0 0 3.14-3.27V54.56c0-13.87 10.08-23.8 23.16-23.8 13.48 0 21.2 9 21.2 22.76v36.9a3.16 3.16 0 0 0 3.27 3.27 3.05 3.05 0 0 0 3.18-3.27V52.34c0-16-9.8-27.48-26.68-27.48-12.17 0-19.63 6.15-24.08 14V3.27A3.23 3.23 0 0 0 79.93 0a3.13 3.13 0 0 0-3.14 3.27" />

diff --git a/src/contact-us/index.html b/src/contact-us/index.html
@@ -57,7 +57,7 @@
               <li><a href="/blog/" class="btn btn-nav" itemprop="name">Blog</a></li>
               <li><a href="/faq/" class="btn btn-nav" itemprop="name"><abbr title="Frequenly Asked Questions">FAQ</abbr>s</a></li>
               <li><em title="You are here" class="btn btn-nav">Contact us</em></li>
-<li><a href="/#order-now" class="btn btn-primary btn-sm d-none d-md-inline-block mb-2" itemprop="name">Order now</a></li>
+              <li><a href="/#order-now" class="btn btn-primary btn-sm d-none d-md-inline-block mb-2" itemprop="name">Order now</a></li>
             </ul>
           </nav>
         </div>
@@ -185,7 +185,7 @@
           <div class="col-sm-6 col-xl-2 col-lg-3 col-md-4">
             <div class="row">
               <p class="gutter-small col-4 col-sm-6 col-md-12">
-                <svg xmlns="http://www.w3.org/2000/svg" viewBox="0 0 380 94.72">
+                <svg xmlns="http://www.w3.org/2000/svg" viewBox="0 0 380 94.72" aria-label="PhenQ" role="img">
                   <defs>
                     <clipPath id="A">
                       <path d="M175.3 30.75c15.3 0 23 12.43 23.94 25.9H150.7c1.18-14.78 11.38-25.9 24.6-25.9m-31.4 28.9v.26c0 20.8 15.17 34.8 32.7 34.8 12 0 19.5-4.3 26-10.86a3.12 3.12 0 0 0 1.05-2.22 3.07 3.07 0 0 0-3.14-3 2.82 2.82 0 0 0-2.09.92c-5.36 5.23-12 9.16-21.6 9.16-13.08 0-25-9.7-26.16-26.3H203a3.26 3.26 0 0 0 3.14-3c0-19.1-11.9-34.54-30.6-34.54-18.06 0-31.66 15.44-31.66 34.8m78.88-20.8v-9.15a3.21 3.21 0 1 0-6.41 0V90.4a3.16 3.16 0 0 0 3.27 3.27 3.05 3.05 0 0 0 3.14-3.27V54.56c0-13.87 10.08-23.8 23.16-23.8 13.47 0 21.2 9 21.2 22.76v36.9a3.16 3.16 0 0 0 3.27 3.27 3.06 3.06 0 0 0 3.14-3.27V52.34c0-16-9.8-27.48-26.7-27.48-12.16 0-19.62 6.15-24.07 14m-216-31H32.7c16.48 0 27.73 7.6 27.73 22.1v.27c0 13.6-11.5 22.5-28.52 22.5H6.8zM3.4 1.58A3.46 3.46 0 0 0 0 5v85.27a3.47 3.47 0 0 0 3.4 3.41 3.47 3.47 0 0 0 3.4-3.41V59h24.73c19.1 0 35.7-9.95 35.7-29.18v-.26c0-17.66-13.86-28-34-28zm300.33 45.8v-.27c0-15.7 11.25-28.52 27.47-28.52s27.74 13.08 27.74 28.8v.26a32.06 32.06 0 0 1-2.49 12.55l-10.07-9a9.33 9.33 0 0 0-6.68-2.75 9.5 9.5 0 0 0-9.42 9.57 9.91 9.91 0 0 0 3.72 7.55l9.55 8.1a27.53 27.53 0 0 1-12 2.48c-16.22 0-27.73-13.08-27.73-28.77m-21.07 0v.26c0 26 20.28 47.1 48.54 47.1a49.82 49.82 0 0 0 27.21-7.85l5 4.45a9.43 9.43 0 0 0 16.09-6.8 9.87 9.87 0 0 0-3.67-7.59L372 73.66a47 47 0 0 0 8-26.29v-.27C380 21.07 359.72 0 331.46 0s-48.8 21.32-48.8 47.36M76.8 3.27V90.4a3.16 3.16 0 0 0 3.27 3.27 3.05 3.05 0 0 0 3.14-3.27V54.56c0-13.87 10.08-23.8 23.16-23.8 13.48 0 21.2 9 21.2 22.76v36.9a3.16 3.16 0 0 0 3.27 3.27 3.05 3.05 0 0 0 3.18-3.27V52.34c0-16-9.8-27.48-26.68-27.48-12.17 0-19.63 6.15-24.08 14V3.27A3.23 3.23 0 0 0 79.93 0a3.13 3.13 0 0 0-3.14 3.27" />

diff --git a/src/about/index.html b/src/about/index.html
@@ -133,7 +133,7 @@
           <div class="col-sm-6 col-xl-2 col-lg-3 col-md-4">
             <div class="row">
               <p class="gutter-small col-4 col-sm-6 col-md-12">
-                <svg xmlns="http://www.w3.org/2000/svg" viewBox="0 0 380 94.72">
+                <svg xmlns="http://www.w3.org/2000/svg" viewBox="0 0 380 94.72" aria-label="PhenQ" role="img">
                   <defs>
                     <clipPath id="A">
                       <path d="M175.3 30.75c15.3 0 23 12.43 23.94 25.9H150.7c1.18-14.78 11.38-25.9 24.6-25.9m-31.4 28.9v.26c0 20.8 15.17 34.8 32.7 34.8 12 0 19.5-4.3 26-10.86a3.12 3.12 0 0 0 1.05-2.22 3.07 3.07 0 0 0-3.14-3 2.82 2.82 0 0 0-2.09.92c-5.36 5.23-12 9.16-21.6 9.16-13.08 0-25-9.7-26.16-26.3H203a3.26 3.26 0 0 0 3.14-3c0-19.1-11.9-34.54-30.6-34.54-18.06 0-31.66 15.44-31.66 34.8m78.88-20.8v-9.15a3.21 3.21 0 1 0-6.41 0V90.4a3.16 3.16 0 0 0 3.27 3.27 3.05 3.05 0 0 0 3.14-3.27V54.56c0-13.87 10.08-23.8 23.16-23.8 13.47 0 21.2 9 21.2 22.76v36.9a3.16 3.16 0 0 0 3.27 3.27 3.06 3.06 0 0 0 3.14-3.27V52.34c0-16-9.8-27.48-26.7-27.48-12.16 0-19.62 6.15-24.07 14m-216-31H32.7c16.48 0 27.73 7.6 27.73 22.1v.27c0 13.6-11.5 22.5-28.52 22.5H6.8zM3.4 1.58A3.46 3.46 0 0 0 0 5v85.27a3.47 3.47 0 0 0 3.4 3.41 3.47 3.47 0 0 0 3.4-3.41V59h24.73c19.1 0 35.7-9.95 35.7-29.18v-.26c0-17.66-13.86-28-34-28zm300.33 45.8v-.27c0-15.7 11.25-28.52 27.47-28.52s27.74 13.08 27.74 28.8v.26a32.06 32.06 0 0 1-2.49 12.55l-10.07-9a9.33 9.33 0 0 0-6.68-2.75 9.5 9.5 0 0 0-9.42 9.57 9.91 9.91 0 0 0 3.72 7.55l9.55 8.1a27.53 27.53 0 0 1-12 2.48c-16.22 0-27.73-13.08-27.73-28.77m-21.07 0v.26c0 26 20.28 47.1 48.54 47.1a49.82 49.82 0 0 0 27.21-7.85l5 4.45a9.43 9.43 0 0 0 16.09-6.8 9.87 9.87 0 0 0-3.67-7.59L372 73.66a47 47 0 0 0 8-26.29v-.27C380 21.07 359.72 0 331.46 0s-48.8 21.32-48.8 47.36M76.8 3.27V90.4a3.16 3.16 0 0 0 3.27 3.27 3.05 3.05 0 0 0 3.14-3.27V54.56c0-13.87 10.08-23.8 23.16-23.8 13.48 0 21.2 9 21.2 22.76v36.9a3.16 3.16 0 0 0 3.27 3.27 3.05 3.05 0 0 0 3.18-3.27V52.34c0-16-9.8-27.48-26.68-27.48-12.17 0-19.63 6.15-24.08 14V3.27A3.23 3.23 0 0 0 79.93 0a3.13 3.13 0 0 0-3.14 3.27" />
